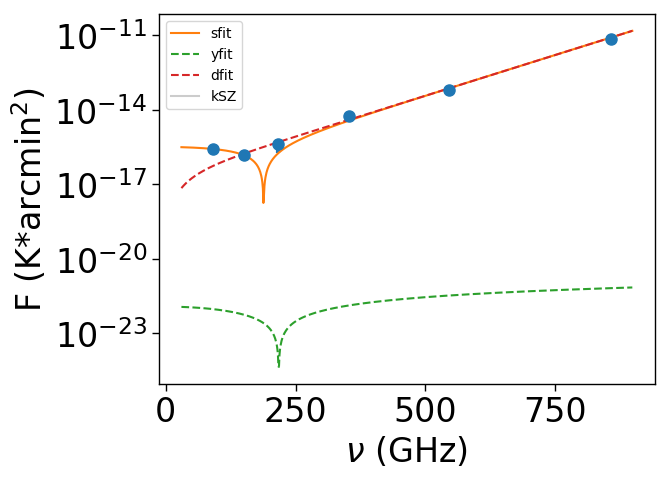
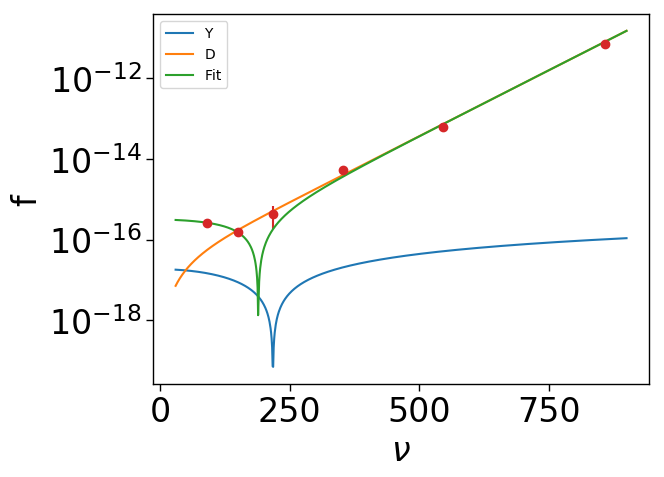
tried using emcee fit

diff --git a/emceefit.py b/emceefit.py
@@ -104,7 +104,59 @@ def Sflux(fghz,Yin,Din,dT):
     # if Din<0: return np.nan
     return yflux(fghz,Yin)+dflux(fghz,Din)+dT
 
-from scipy.optimize import curve_fit
+#from scipy.optimize import curve_fit
+def gfunc(freq,Tcmb=2.7255e6):
+  hplanck=6.626068e-34 #MKS
+  kboltz=1.3806503e-23 #MKS
+  X=hplanck*freq/(kboltz*Tcmb/1e6) 
+  Xtwid=X*np.cosh(0.5*X)/np.sinh(0.5*X)
+  Y0=Xtwid-4.0
+  gfunc=Y0
+  return gfunc
+
+def gfuncrel(freq,Te,Tcmb=2.7255e6):
+  """
+  !-----------------------------------------------------------------------------
+  ! From J.Colin Hill
+  !
+  ! Spectral function of the thermal Sunyaev-Zel'dovich effect.
+  ! Relativistic corrections implemented using Nozawa et al. (2006)
+  !   and Arnaud et al. (2005) for the T_e(M,z) relation.
+  !
+  !-----------------------------------------------------------------------------
+  """
+
+  
+  hplanck=6.626068e-34 #MKS
+  kboltz=1.3806503e-23 #MKS
+    
+  X=hplanck*freq/(kboltz*Tcmb/1e6) 
+  Xtwid=X*np.cosh(0.5*X)/np.sinh(0.5*X)
+  Stwid=X/np.sinh(0.5*X)
+  Y0=Xtwid-4.0
+  Y1=-10.0+23.5*Xtwid-8.4*Xtwid**2+0.7*Xtwid**3+ \
+       Stwid**2*(-4.2+1.4*Xtwid)
+  Y2=-7.5+127.875*Xtwid-173.6*Xtwid**2.0+65.8*Xtwid**3.0- \
+       8.8*Xtwid**4.0+0.3666667*Xtwid**5.0+Stwid**2.0* \
+       (-86.8+131.6*Xtwid-48.4*Xtwid**2.0+4.7666667*Xtwid**3.0)+ \
+       Stwid**4.0*(-8.8+3.11666667*Xtwid)
+  Y3=7.5+313.125*Xtwid-1419.6*Xtwid**2.0+1425.3*Xtwid**3.0- \
+       531.257142857*Xtwid**4.0+86.1357142857*Xtwid**5.0- \
+       6.09523809524*Xtwid**6.0+0.15238095238*Xtwid**7.0+ \
+       Stwid**2.0*(-709.8+2850.6*Xtwid-2921.91428571*Xtwid**2.0+ \
+       1119.76428571*Xtwid**3.0-173.714285714*Xtwid**4.0+ \
+       9.14285714286*Xtwid**5.0)+Stwid**4.0*(-531.257142857+ \
+       732.153571429*Xtwid-274.285714286*Xtwid**2.0+ \
+       29.2571428571*Xtwid**3.0)+Stwid**6.0* \
+       (-25.9047619048+9.44761904762*Xtwid)
+
+
+  me = 9.109383e-31 # kg
+  cspeed = 2.99792458e8 # m/s
+  tTe = kboltz*Te/cspeed**2./me
+
+  gfuncrel=Y0+Y1*tTe+Y2*tTe**2.0+Y3*tTe**3.0 
+  return gfuncrel
 
 freqs = np.arange(30,900,1.)
 
@@ -170,21 +222,46 @@ bnu = bdust(freqs,zavg)
 # pl.hline(y=tfit,ls="-",alpha=0.2,label='kSZ')
 # pl.legend()
 # pl.done(io.dout_dir+"apfluxes_fit.png")
-x = np.array([90,150,217,353,545,857])
-aperrs=np.array(aperrs)
-apmeans=np.array(apmeans)
-bfit,bcov,chisquare,pte = stats.fit_linear_model(x,apmeans,ycov=np.diag(aperrs**2.), funcs=[lambda x: 1.,lambda x: yflux(x,1.),lambda x: dflux(x,1.)])
-dTfit,Yfit,Dfit = bfit
-edTfit,eYfit,eDfit = np.sqrt(np.diagonal(bcov))
+
+# x = np.array([90,150,217,353,545,857])
+# aperrs=np.array(aperrs)
+# apmeans=np.array(apmeans)
+# bfit,bcov,chisquare,pte = stats.fit_linear_model(x,apmeans,ycov=np.diag(aperrs**2.), funcs=[lambda x: 1.,lambda x: yflux(x,1.),lambda x: dflux(x,1.)])
+# dTfit,Yfit,Dfit = bfit
+# edTfit,eYfit,eDfit = np.sqrt(np.diagonal(bcov))
+
+def lnlike(param,nu,S,yerr):
+    Y,D,dT,Teff=param
+    model=TCMB*f_nu(nu)*Y+pref * planck(nu*(1+z),Tdust) / dplanckT(nu)*D+dT+Y * gfuncrel(nu,Teff)
+    inv_sigma2 = 1.0/(yerr**2 + model**2)
+    return -0.5*(np.sum((S-model)**2*inv_sigma2 - np.log(inv_sigma2)))
+
+def lnprior(param):
+    Y,D,dT,Teff=param
+    if -1e-15 < Y < -1e-16 and  1e-17< D < 1e-16 and -1e-16 < dT < 0 and -1e-15 < Teff < 0:
+        return 0.0
+    return -np.inf
+
+def lnprob(param, nu, S, yerr):
+    lp = lnprior(param)
+    if not np.isfinite(lp):
+        return -np.inf
+    return lp + lnlike(param,nu,S,yerr)
+freqarray=np.array(freqlist)
+ndim, nwalkers = 4, 100
+pos = [result["x"] + 1e-4*np.random.randn(ndim) for i in range(nwalkers)]
+import emcee
+sampler = emcee.EnsembleSampler(nwalkers, ndim, lnprob, args=(freqarray, apmeans, aperrs))
+sampler.run_mcmc(pos, 500)
 
 
 #print(dT,Y,D)
-print(dTfit,Yfit,Dfit)
-print(dTfit/edTfit,Yfit/eYfit,Dfit/eDfit)
-print(chisquare,pte)
-print(bcov)
-bcor=stats.cov2corr(bcov)
-print(bcor)
+# print(dTfit,Yfit,Dfit)
+# print(dTfit/edTfit,Yfit/eYfit,Dfit/eDfit)
+# print(chisquare,pte)
+# print(bcov)
+# bcor=stats.cov2corr(bcov)
+# print(bcor)
 # print(freqs)
 # print(Yfit[0])
 # print(Dfit[0])
@@ -192,13 +269,13 @@ print(bcor)
 # print(Sflux(freqs,Yfit[0],Dfit[0],dTfit[0]))
 # print(np.abs(Sflux(freqs,Yfit[0],Dfit[0],dTfit[0])))
 
-pl = io.Plotter(xlabel="$\\nu$",ylabel="f",yscale='log')
-pl.add(freqs,np.abs(yflux(freqs,Yfit[0])),label='Y')
-pl.add(freqs,dflux(freqs,Dfit[0]),label="D")
-pl.add(freqs,np.abs(Sflux(freqs,Yfit[0],Dfit[0],dTfit[0])),label='Fit')
-pl.add_err(x,np.abs(apmeans),yerr=aperrs,marker="o",ls="none")
-pl.legend()
-pl.done(io.dout_dir+"apfluxes_fitlog.png")
+# pl = io.Plotter(xlabel="$\\nu$",ylabel="f",yscale='log')
+# pl.add(freqs,np.abs(yflux(freqs,Yfit[0])),label='Y')
+# pl.add(freqs,dflux(freqs,Dfit[0]),label="D")
+# pl.add(freqs,np.abs(Sflux(freqs,Yfit[0],Dfit[0],dTfit[0])),label='Fit')
+# pl.add_err(x,np.abs(apmeans),yerr=aperrs,marker="o",ls="none")
+# pl.legend()
+# pl.done(io.dout_dir+"apfluxes_fitlog.png")
 
 
 # print(apmeans)

diff --git a/gfunc.py b/gfunc.py
@@ -1,0 +1,54 @@
+import numpy as np
+
+def gfunc(freq,Tcmb=2.7255e6):
+  hplanck=6.626068e-34 #MKS
+  kboltz=1.3806503e-23 #MKS
+  X=hplanck*freq/(kboltz*Tcmb/1e6) 
+  Xtwid=X*np.cosh(0.5*X)/np.sinh(0.5*X)
+  Y0=Xtwid-4.0
+  gfunc=Y0
+  return gfunc
+
+def gfuncrel(freq,Te,Tcmb=2.7255e6):
+  """
+  !-----------------------------------------------------------------------------
+  ! From J.Colin Hill
+  !
+  ! Spectral function of the thermal Sunyaev-Zel'dovich effect.
+  ! Relativistic corrections implemented using Nozawa et al. (2006)
+  !   and Arnaud et al. (2005) for the T_e(M,z) relation.
+  !
+  !-----------------------------------------------------------------------------
+  """
+
+  
+  hplanck=6.626068e-34 #MKS
+  kboltz=1.3806503e-23 #MKS
+    
+  X=hplanck*freq/(kboltz*Tcmb/1e6) 
+  Xtwid=X*np.cosh(0.5*X)/np.sinh(0.5*X)
+  Stwid=X/np.sinh(0.5*X)
+  Y0=Xtwid-4.0
+  Y1=-10.0+23.5*Xtwid-8.4*Xtwid**2+0.7*Xtwid**3+ \
+       Stwid**2*(-4.2+1.4*Xtwid)
+  Y2=-7.5+127.875*Xtwid-173.6*Xtwid**2.0+65.8*Xtwid**3.0- \
+       8.8*Xtwid**4.0+0.3666667*Xtwid**5.0+Stwid**2.0* \
+       (-86.8+131.6*Xtwid-48.4*Xtwid**2.0+4.7666667*Xtwid**3.0)+ \
+       Stwid**4.0*(-8.8+3.11666667*Xtwid)
+  Y3=7.5+313.125*Xtwid-1419.6*Xtwid**2.0+1425.3*Xtwid**3.0- \
+       531.257142857*Xtwid**4.0+86.1357142857*Xtwid**5.0- \
+       6.09523809524*Xtwid**6.0+0.15238095238*Xtwid**7.0+ \
+       Stwid**2.0*(-709.8+2850.6*Xtwid-2921.91428571*Xtwid**2.0+ \
+       1119.76428571*Xtwid**3.0-173.714285714*Xtwid**4.0+ \
+       9.14285714286*Xtwid**5.0)+Stwid**4.0*(-531.257142857+ \
+       732.153571429*Xtwid-274.285714286*Xtwid**2.0+ \
+       29.2571428571*Xtwid**3.0)+Stwid**6.0* \
+       (-25.9047619048+9.44761904762*Xtwid)
+
+
+  me = 9.109383e-31 # kg
+  cspeed = 2.99792458e8 # m/s
+  tTe = kboltz*Te/cspeed**2./me
+
+  gfuncrel=Y0+Y1*tTe+Y2*tTe**2.0+Y3*tTe**3.0 
+  return gfuncrel

diff --git a/plots.py b/plots.py
@@ -12,7 +12,47 @@ import szar
 from szar import counts
 import scipy
 
-map90location='/Users/Teva/maps and catalog data/f090_daynight_all_map_mono_deep56.fits'
-map150location='/Users/Teva/maps and catalog data/f150_daynight_all_map_mono_deep56.fits'
+map90location='/Users/Teva/maps and catalog data/f090_night_all2_map_mono.fits'
+map150location='/Users/Teva/maps and catalog data/f150_night_all2_map_mono.fits'
 map217location='/Users/Teva/maps and catalog data/HFI_SkyMap_217_2048_R2.02_full_cutout_h0.fits'
 map353location='/Users/Teva/maps and catalog data/HFI_SkyMap_353_2048_R2.02_full_cutout_h0.fits'
+
+#cat_location='../maps and catalog data/act_confirmed_clusters.fits'
+#cat_location='../maps and catalog data/act_candidate_clusters.fits'
+cat_location='../maps and catalog data/redmapper_dr8_public_v6.3_catalog.fits'
+out_dir = "./"
+
+hdulist=fits.open(cat_location)
+catalog= hdulist[1].data
+lmap90=enmap.read_map(map90location)
+tmap90=lmap90[0]
+Ny,Nx = tmap90.shape
+widthStampArcminute=60.
+pixScale = 0.5
+Np = np.int(widthStampArcminute/pixScale+0.5)
+pad = np.int(Np/2+0.5)
+z_values=[]
+richnesses=[]
+N=0
+
+for i in range(0,len(catalog)):
+	ra=catalog[i][2]*np.pi/180 #1 for ACT, 2 for redmapper
+	dec=catalog[i][3]*np.pi/180 #2 for ACT, 3 for redmapper
+	iy,ix = tmap90.sky2pix(coords=(dec,ra)) #doesn't matter if this uses 90 or 150
+	if ix>=pad and ix<Nx-pad and iy>=pad and iy<Ny-pad:
+		z=catalog[i][4]
+		richness=catalog[i][6]
+		z_values.append(z)
+		richnesses.append(richness)
+		N=N+1
+
+print(N)
+plt.hist(z_values)
+plt.xlabel('Z')
+plt.ylabel("Number of Clusters")
+plt.savefig('redmapper z hist.png')
+
+plt.hist(richnesses)
+plt.xlabel('Richness')
+plt.ylabel("Number of Clusters")
+plt.savefig('redmapper richness hist.png')
